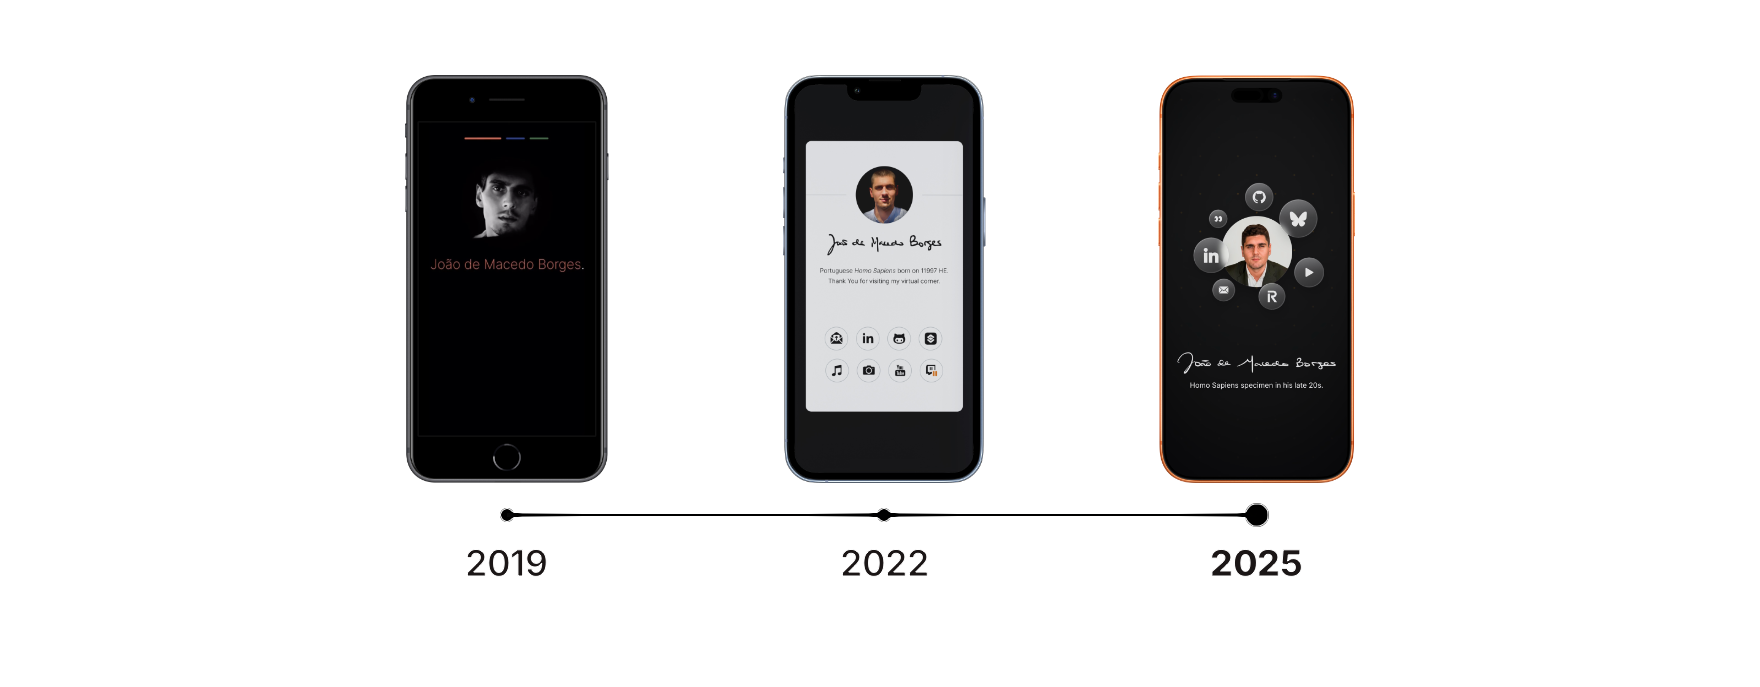
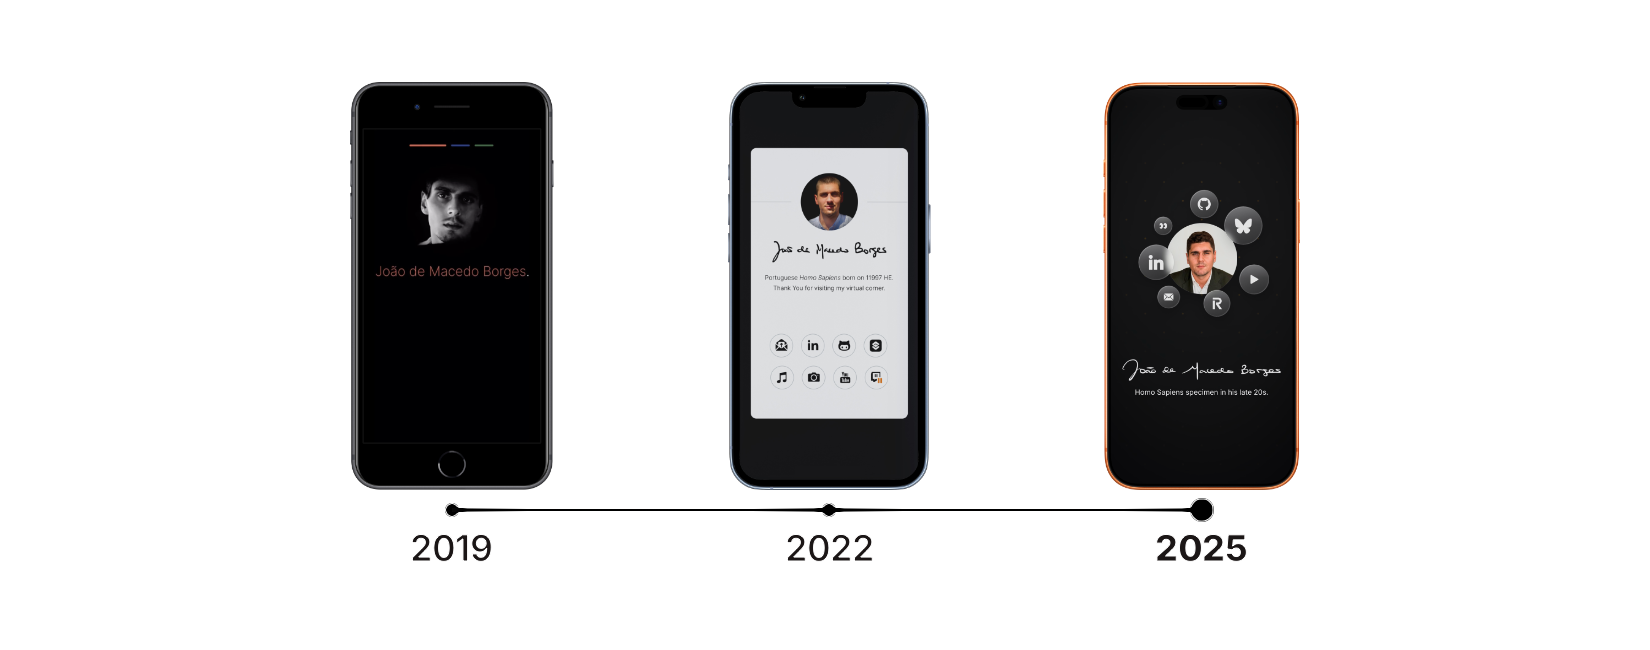
Updated README.

Changed region(s): [[0.1855, 0.0923, 0.8036, 0.8615]]

diff --git a/README.md b/README.md
@@ -21,9 +21,9 @@ João reserves the right to update this policy at any time. Continued use of the
 ## 📌 Copyright
 
 All rights reserved unless otherwise stated. This website incorporates original work created by João de Macedo Borges and select open-source or public resources used in compliance with their respective licenses:
-* Background video, shot by Rostislav Uzunov and posted on Pexels for free use.
 * Inter Typeface, designed by Rasmus Andersson and used under the MIT License.
-* Text Scramble Animation, inspired by Justin Windle's public CodePen and used non-commercially.
+* Background Animation, adapted from the public CodePen of @jp-arts and used non-commercially.
+* Text Scramble Animation, inspired by the public CodePen of @soulwire and used non-commercially.
 * Liquid Glass Effect, adapted from publicly available code on Snipzy and used non-commercially.
 * SF Compact Iconography, from the Apple Native CoreSVG 326 system and used for non-commercial purposes. All rights belong to Apple Incorporated.
 
@@ -32,3 +32,5 @@ Where applicable, code snippets and components may fall under Creative Commons A
 All other content, source code, design, and assets not explicitly attributed are © João de Macedo Borges and may not be copied, reproduced, modified, or redistributed without prior permission.
 
 This website is provided "as is" without any warranties. No liability is accepted for any loss or damages arising from its use.
+
+Built with help from Claude (Anthropic).
